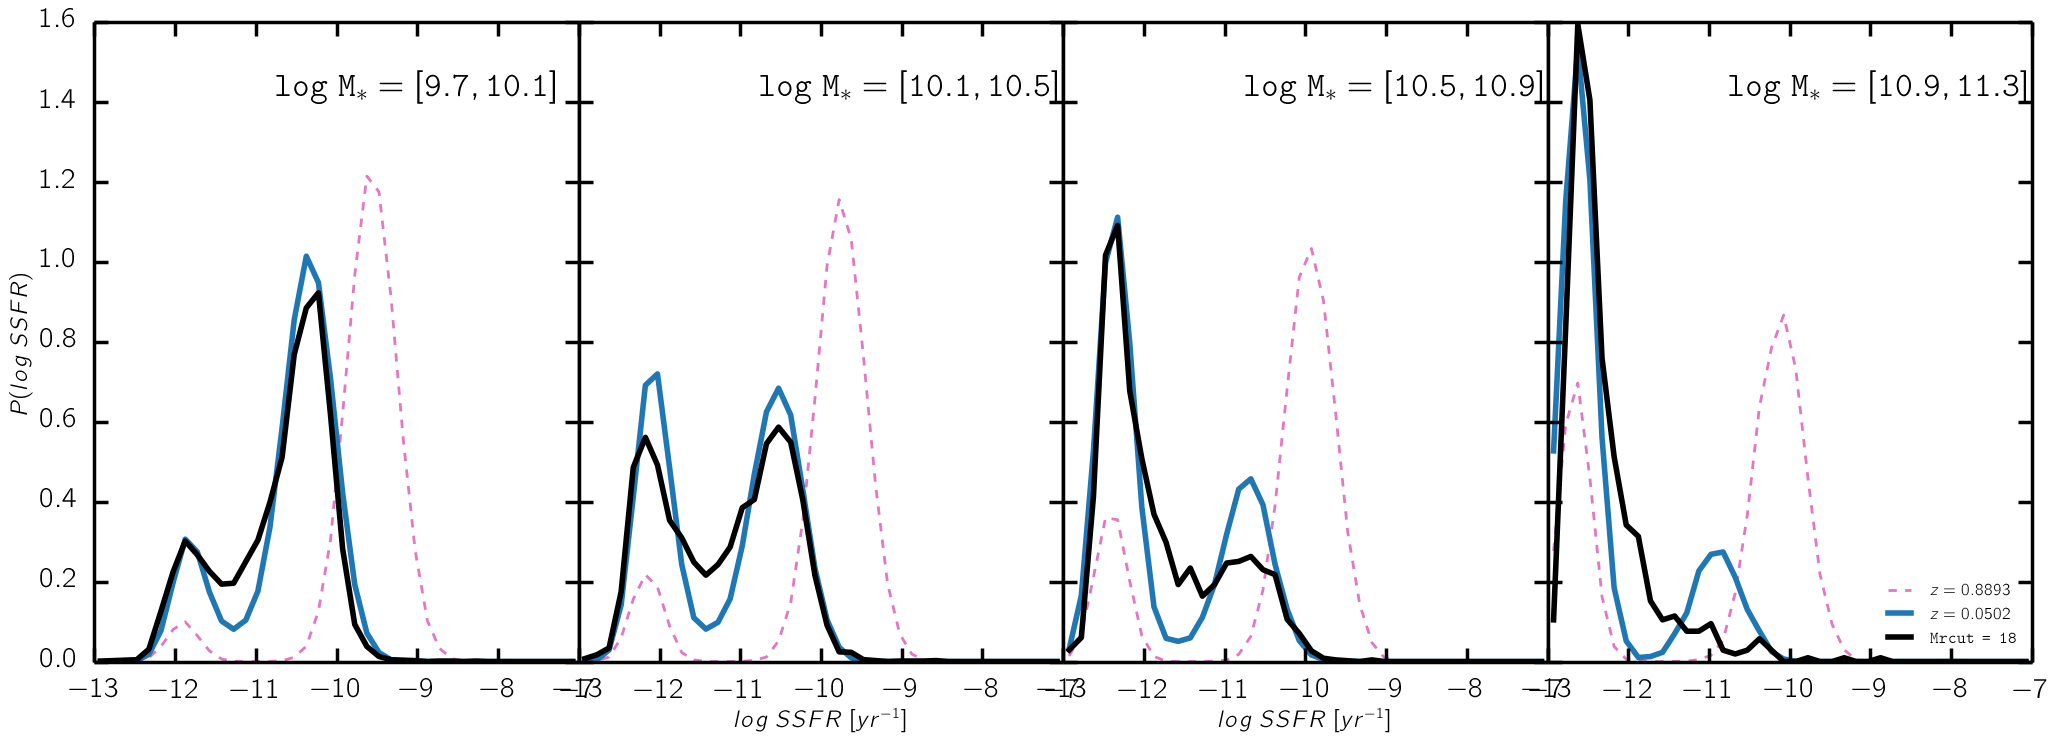
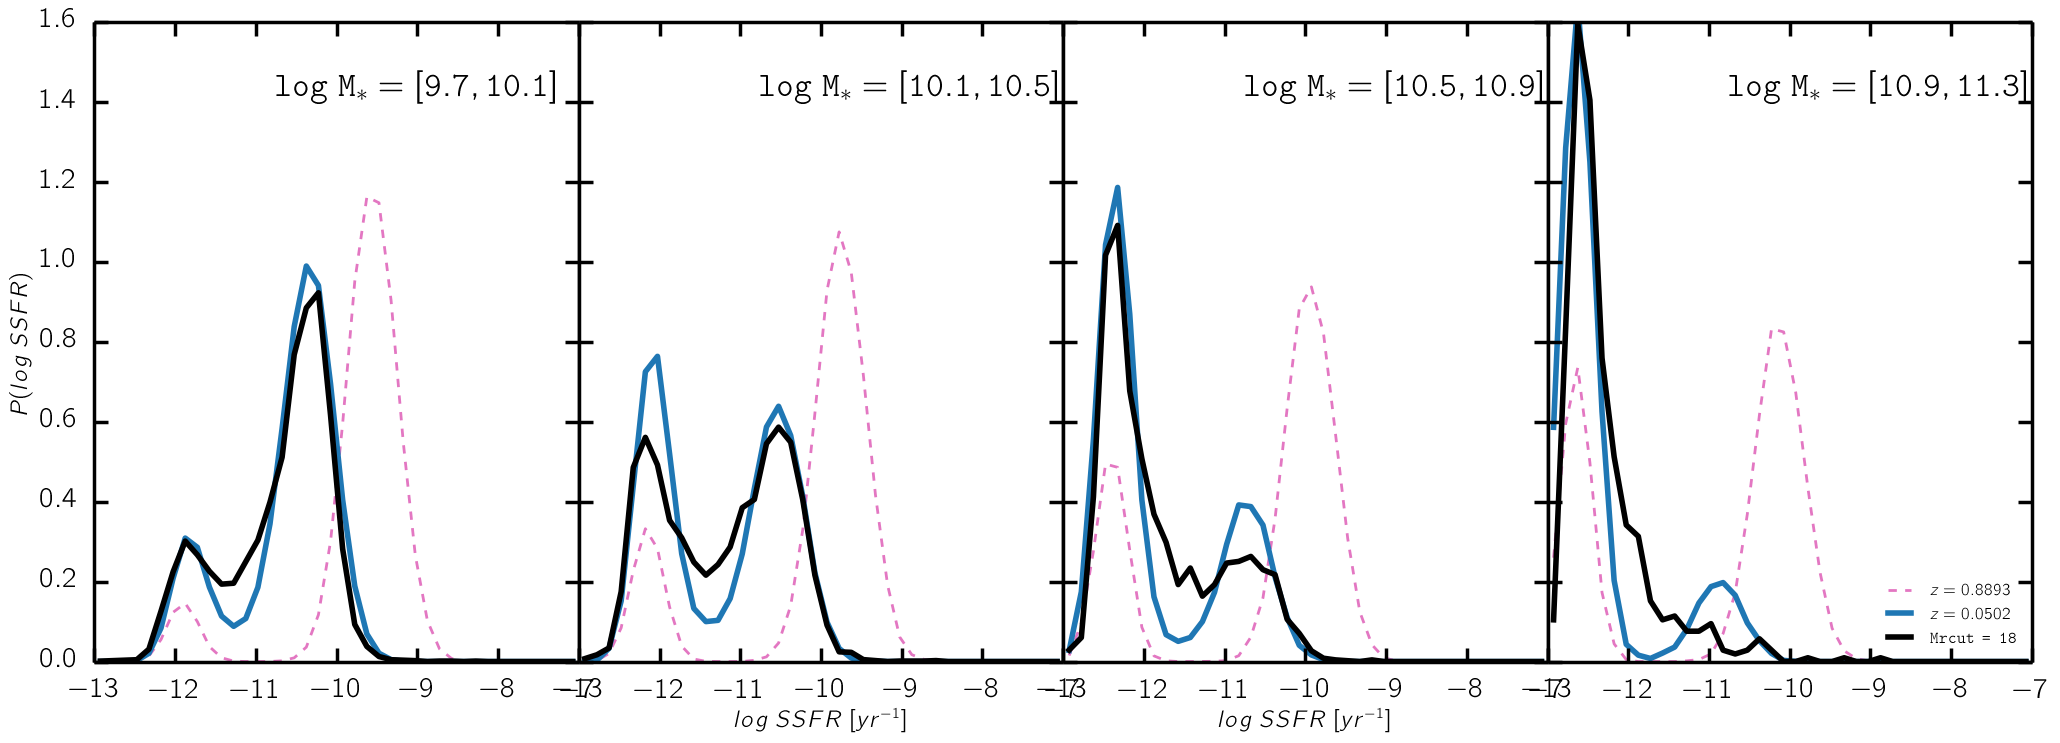
Smoothed out Wetzel fQ; hybrid quenching fraction

diff --git a/cenque_plot.py b/cenque_plot.py
@@ -175,6 +175,7 @@ def plot_cenque_ssfr_dist_evolution(Mrcut=18, **kwargs):
         'cenque_ssfr_evol_', tau_str, '_', fqing_str, '_Mrcut', str(Mrcut), '.png'])
     ssfr_fig.savefig(fig_file, bbox_inches='tight') 
     ssfr_fig.clear() 
+    plt.close(ssfr_fig)
 
 def plot_cenque_ssfr_dist_evolution_match2isedfit(Mrcut=18, **kwargs): 
     snap = cq.CenQue() 
@@ -301,6 +302,7 @@ def plot_cenque_quenching_ssfr_dist(nsnap, **kwargs):
         '_quenching_component.png'])
     fig.savefig(fig_file, bbox_inches='tight') 
     fig.clear() 
+    plt.close(fig)
 
 def plot_sdss_group_cat(): 
     ''' plot ssfr distribution for SDSS group catalogs
@@ -413,7 +415,7 @@ def plot_cenque_sf_mainseq():
 
 # quiescent fraction -----------------------------------
 def plot_fq_evol(): 
-    ''' Plot fq evolution 
+    ''' Plot fq evolution comparison
     '''
 
     # snapshot redshifts
@@ -423,9 +425,6 @@ def plot_fq_evol():
 
     mass_bin = util.simple_mass_bin()                    # mass bin 
        
-    fig, subs = plt.subplots(1,4, figsize=[20, 5]) 
-    subs = subs.ravel() 
-
     prettyplot()        # make pretty 
     pretty_colors = prettycolors() 
     
@@ -434,7 +433,11 @@ def plot_fq_evol():
     mod_tink_file = ''.join(['dat/central_quenching/literature/modified_tinker_fq.dat']) 
     mod_tink_mass, mod_tink_fq = np.loadtxt(mod_tink_file, unpack=True, usecols=[0,1])   
 
-    fq_types = ['cosmosinterp', 'cosmosfit', 'wetzel'] 
+    fq_types = ['cosmosinterp', 'wetzel', 'wetzelsmooth'] 
+    
+    fig, subs = plt.subplots(1, len(fq_types), figsize=[len(fq_types)*5, 5]) 
+    subs = subs.ravel() 
+
     for i_fq, fq_type in enumerate(fq_types): 
         for i_z, z in enumerate(zbin): 
 
@@ -454,27 +457,13 @@ def plot_fq_evol():
 
         subs[i_fq].set_xlabel('Mass') 
 
-    for i_z, z in enumerate(zbin): 
-
-        # plot fq(Mass) 
-        fq_mass = [util.get_fq_alpha(mass_bin.mass_mid[i], z, -1.5) 
-                for i in range(len(mass_bin.mass_mid))]
-        subs[3].plot(mass_bin.mass_mid, fq_mass, 
-                color=pretty_colors[i_z], lw=4, label='z = '+str(z) ) 
-    
-
-    subs[3].set_title('Evolved from z = 0.88') 
-
-    subs[3].set_xlim([9.0, 12.0])
-    subs[3].set_ylim([0.0, 1.0])
-
-    subs[3].set_xlabel('Mass') 
-
     subs[0].set_ylabel('Quiescent Fraction') 
     subs[0].legend(loc='upper left') 
-    return fig
+    fig_name = ''.join(['figure/fq_evol_comp_', '_'.join(fq_types), '.png'])
+    fig.savefig(fig_name, bbox_inches='tight')
+    fig.clear() 
 
-def plot_snapshot_fqobs_evol(nsnaps=[1,2,3,4,5,6,7,8,9,10,11,12],fq_type='wetzel', **kwargs): 
+def plot_snapshot_fqobs_evol(nsnaps=[1,2,3,4,5,6,7,8,9,10,11,12],fq_type='wetzelsmooth', **kwargs): 
     ''' Plot the observed quiescent fraction of snapshots
 
     Parameters
@@ -567,6 +556,7 @@ def plot_snapshot_fqobs_evol(nsnaps=[1,2,3,4,5,6,7,8,9,10,11,12],fq_type='wetzel
     fig_file = 'figure/fq_obs_snapshot.png'
     fig.savefig(fig_file, bbox_inches='tight')
     fig.clear()
+    plt.close(fig)
 
 def plot_snapshot_fqobs(nsnap, fq_type='wetzel', **kwargs): 
     ''' Plot the observed quiescent fraction of a snapshot with parameterized fQ
@@ -586,7 +576,7 @@ def plot_snapshot_fqobs(nsnap, fq_type='wetzel', **kwargs):
 
     mass_bins = util.simple_mass_bin()                    # mass bin 
        
-    fig = plt.figure(1, figsize=[5, 5]) 
+    fig = plt.figure(figsize=[5, 5]) 
     subs = fig.add_subplot(111)
 
     snap = cq.CenQue() 
@@ -617,8 +607,7 @@ def plot_snapshot_fqobs(nsnap, fq_type='wetzel', **kwargs):
     fq_mass = [util.get_fq(mass_bins.mass_mid[i], zbin, lit=fq_type) for i in range(len(mass_bins.mass_mid))]
     subs.plot(mass_bins.mass_mid, fq_mass, 
             color='black', lw=4, ls='--', label='Wetzel; z = '+str(zbin) ) 
-    
-    subs.set_title('Snapshots')
+
     subs.set_xlim([9.0, 12.0])
     subs.set_ylim([0.0, 1.0])
     subs.set_xlabel('Mass') 
@@ -628,6 +617,7 @@ def plot_snapshot_fqobs(nsnap, fq_type='wetzel', **kwargs):
     fig_file = 'figure/fq_obs_snapshot'+str(nsnap)+'.png'
     fig.savefig(fig_file, bbox_inches='tight')
     fig.clear()
+    plt.close(fig)
 
 def plot_quenching_efold(taus, tau_params): 
     ''' Plot quenching e-fold (tau) as a function of M*
@@ -1082,62 +1072,16 @@ if __name__=='__main__':
     #plot_groupcat_obs_fq(Mrcut=18)
     #plot_groupcat_obs_fq(Mrcut=19)
     #plot_groupcat_obs_fq(Mrcut=20)
+   
     plot_cenque_ssfr_dist_evolution(nsnaps=[1], Mrcut=18, tau='linear')
-    #plot_cenque_quenching_ssfr_dist(12, tau='linear')
-    #plot_cenque_quenching_ssfr_dist(11, tau='linear')
-    #plot_cenque_quenching_ssfr_dist(10, tau='linear')
-    #plot_cenque_quenching_ssfr_dist(9,  tau='linear')
-    #plot_cenque_quenching_ssfr_dist(8,  tau='linear')
-    #plot_cenque_quenching_ssfr_dist(7,  tau='linear')
-    #plot_cenque_quenching_ssfr_dist(6,  tau='linear')
-    #plot_cenque_quenching_ssfr_dist(5,  tau='linear')
-    #plot_cenque_quenching_ssfr_dist(4,  tau='linear')
-    #plot_cenque_quenching_ssfr_dist(3,  tau='linear')
-    #plot_cenque_quenching_ssfr_dist(2,  tau='linear')
-    #plot_cenque_quenching_ssfr_dist(1,  tau='linear')
+    tau_str = 'linear'
+    for i in range(1,13): 
+        plot_cenque_quenching_ssfr_dist(i, tau=tau_str)
 
-    #plot_cenque_quenching_ssfr_dist(12, tau='instant')
-    #plot_cenque_quenching_ssfr_dist(11, tau='instant')
-    #plot_cenque_quenching_ssfr_dist(10, tau='instant')
-    #plot_cenque_quenching_ssfr_dist(9,  tau='instant')
-    #plot_cenque_quenching_ssfr_dist(8,  tau='instant')
-    #plot_cenque_quenching_ssfr_dist(7,  tau='instant')
-    #plot_cenque_quenching_ssfr_dist(6,  tau='instant')
-    #plot_cenque_quenching_ssfr_dist(5,  tau='instant')
-    #plot_cenque_quenching_ssfr_dist(4,  tau='instant')
-    #plot_cenque_quenching_ssfr_dist(3,  tau='instant')
-    #plot_cenque_quenching_ssfr_dist(2,  tau='instant')
-    #plot_cenque_quenching_ssfr_dist(1,  tau='instant')
+    plot_snapshot_fqobs_evol(nsnaps=[1,2,3,4,5,6,7,8,9,10,11,12], fq_type='wetzelsmooth', tau='linear')
+    for i in range(1,13): 
+        plot_snapshot_fqobs(i, fq_type='wetzelsmooth', tau='linear')
 
-    #plot_snapshot_fqobs_evol(nsnaps=[1,2,3,4,5,6,7,8,9,10,11,12], fq_type='wetzel', tau='linear')
-    #plot_snapshot_fqobs_evol(nsnaps=[1,2,3,4,5,6,7,8,9,10,11,12], fq_type='wetzel', tau='instant')
-    '''
-    plot_snapshot_fqobs(12, fq_type='wetzel', tau='linear')
-    plot_snapshot_fqobs(11, fq_type='wetzel', tau='linear')
-    plot_snapshot_fqobs(10, fq_type='wetzel', tau='linear')
-    plot_snapshot_fqobs(9, fq_type='wetzel',  tau='linear')
-    plot_snapshot_fqobs(8, fq_type='wetzel',  tau='linear')
-    plot_snapshot_fqobs(7, fq_type='wetzel',  tau='linear')
-    plot_snapshot_fqobs(6, fq_type='wetzel',  tau='linear')
-    plot_snapshot_fqobs(5, fq_type='wetzel',  tau='linear')
-    plot_snapshot_fqobs(4, fq_type='wetzel',  tau='linear')
-    plot_snapshot_fqobs(3, fq_type='wetzel',  tau='linear')
-    plot_snapshot_fqobs(2, fq_type='wetzel',  tau='linear')
-    plot_snapshot_fqobs(1, fq_type='wetzel',  tau='linear')
-    '''
-
-    #plot_snapshot_fqobs(12, fq_type='wetzel', tau='instant')
-    #plot_snapshot_fqobs(11, fq_type='wetzel', tau='instant')
-    #plot_snapshot_fqobs(10, fq_type='wetzel', tau='instant')
-    #plot_snapshot_fqobs(9, fq_type='wetzel',  tau='instant')
-    #plot_snapshot_fqobs(8, fq_type='wetzel',  tau='instant')
-    #plot_snapshot_fqobs(7, fq_type='wetzel',  tau='instant')
-    #plot_snapshot_fqobs(6, fq_type='wetzel',  tau='instant')
-    #plot_snapshot_fqobs(5, fq_type='wetzel',  tau='instant')
-    #plot_snapshot_fqobs(4, fq_type='wetzel',  tau='instant')
-    #plot_snapshot_fqobs(3, fq_type='wetzel',  tau='instant')
-    #plot_snapshot_fqobs(2, fq_type='wetzel',  tau='instant')
-    #plot_snapshot_fqobs(1, fq_type='wetzel',  tau='instant')
     ##tau_fig = plot_quenching_efold(['linear', 'linefit'], [[], [-0.15, 0.17]]) 
 
     #plot_ssfms_groupcat(Mrcut=18)
@@ -1152,8 +1096,7 @@ if __name__=='__main__':
     #plot_cenque_sf_mainseq()
 
     #fq_fig = plot_fq_evol_w_geha() 
-    #fq_fig = plot_fq_evol()
-    #fq_fig.savefig('figure/tinker/fq_evol_fig_lit.png', bbox_inches='tight')
+    #plot_fq_evol()
 
     #tau_fig = plot_quenching_efold() 
     #tau_fig.savefig('figure/quenching_efold_fig.png', bbox_inches='tight')

diff --git a/cenque.py b/cenque.py
@@ -126,7 +126,7 @@ class CenQue:
             # get quiescent fraction for mass bin at z_snapshot 
             #mass_bin_qf = util.get_fquenching(mass_bins.mass_mid[i_m], self.zsnap, 
             #        yint=kwargs['fqing_yint'])
-            mass_bin_qf = util.get_fq(mass_bins.mass_mid[i_m], self.zsnap, lit='wetzel') 
+            mass_bin_qf = util.get_fq(mass_bins.mass_mid[i_m], self.zsnap, lit='wetzelsmooth') 
 
             # Ngal,quiescent in mass bin
             mass_bin_n_q = int( np.rint(mass_bin_qf * np.float(mass_bin_ngal)) ) 
@@ -510,7 +510,9 @@ def EvolveCenQue(origin_nsnap, final_nsnap, mass_bin=None, **kwargs):
         child_cq.ssfr[q_child_indx] = parent_cq.ssfr[q_child_parent_indx]
         child_cq.sfr[q_child_indx] = child_cq.ssfr[q_child_indx] + \
                 child_cq.mass[q_child_indx]
-       
+        
+        quenching_fractions = [] 
+        quenching_fractionss = [] 
         for i_m in range(mass_bins.nbins):              
             
             # boolean list for mass range
@@ -530,7 +532,7 @@ def EvolveCenQue(origin_nsnap, final_nsnap, mass_bin=None, **kwargs):
                 continue 
             
             # observed quiescent fraction at M* and z
-            mbin_qf = util.get_fq(mass_bins.mass_mid[i_m], child_cq.zsnap, lit='wetzel') 
+            mbin_qf = util.get_fq(mass_bins.mass_mid[i_m], child_cq.zsnap, lit='wetzelsmooth') 
 
             print 'nsnap = ', child_cq.nsnap, ' z = ', child_cq.zsnap, ' M* = ', mass_bins.mass_mid[i_m], ' fq = ', mbin_qf
             
@@ -590,35 +592,64 @@ def EvolveCenQue(origin_nsnap, final_nsnap, mass_bin=None, **kwargs):
                 -(child_cq.t_cosmic - parent_cq.t_cosmic) / taus 
                 ))      
             #print child_cq.parent_sfr[mbin_sf_index] + tau_quench - child_cq.mass[mbin_sf_index]
-            print tau_quench
-            print min(child_cq.sfr[mbin_sf_index] + tau_quench - child_cq.mass[mbin_sf_index])
-            print max(child_cq.sfr[mbin_sf_index] + tau_quench - child_cq.mass[mbin_sf_index])
+            #print tau_quench
+            #print min(child_cq.sfr[mbin_sf_index] + tau_quench - child_cq.mass[mbin_sf_index])
+            #print max(child_cq.sfr[mbin_sf_index] + tau_quench - child_cq.mass[mbin_sf_index])
 
             sfqs = util.sfq_classify(child_cq.mass[mbin_sf_index], child_cq.sfr[mbin_sf_index] + tau_quench, child_cq.zsnap)
             ngal_totalq = np.float(np.sum(sfqs == 'quiescent'))
-            print min(child_cq.sfr[mbin_sf_index[sfqs == 'quiescent']] + tau_quench[sfqs == 'quiescent'] - child_cq.mass[mbin_sf_index[sfqs == 'quiescent']])
-            print max(child_cq.sfr[mbin_sf_index[sfqs == 'quiescent']] + tau_quench[sfqs == 'quiescent'] - child_cq.mass[mbin_sf_index[sfqs == 'quiescent']])
+            #print min(child_cq.sfr[mbin_sf_index[sfqs == 'quiescent']] + tau_quench[sfqs == 'quiescent'] - child_cq.mass[mbin_sf_index[sfqs == 'quiescent']])
+            #print max(child_cq.sfr[mbin_sf_index[sfqs == 'quiescent']] + tau_quench[sfqs == 'quiescent'] - child_cq.mass[mbin_sf_index[sfqs == 'quiescent']])
     
             if ngal_totalq == 0: 
                 raise NameError("What the fuck") 
-
+            #print 'ngal_totalq', ngal_totalq
+            
+            '''
             #quenching_fraction = np.float(ngal_2quench)/ngal_totalq
-            quenching_fraction = 0.1 + 0.066 * (mass_bins.mass_mid[i_m] - 11.0)
-            quenching_fraction = 
+            if mass_bins.mass_mid[i_m] < 9.5: 
+                alpha = 0.5 
+            elif (mass_bins.mass_mid[i_m] >= 9.5) & (mass_bins.mass_mid[i_m] < 10.0): 
+                alpha = 0.5
+            elif (mass_bins.mass_mid[i_m] >= 10.0) & (mass_bins.mass_mid[i_m] < 10.5): 
+                alpha = 0.75
+            elif (mass_bins.mass_mid[i_m] >= 10.5) & (mass_bins.mass_mid[i_m] < 11.0): 
+                alpha = 0.75 
+            elif (mass_bins.mass_mid[i_m] >= 11.0) & (mass_bins.mass_mid[i_m] < 11.5): 
+                alpha = 2.0
+            elif (mass_bins.mass_mid[i_m] < 11.5): 
+                alpha = 2.0 
+            '''
+            alpha = 1.0
+            quenching_fraction = 0.05 * (mass_bins.mass_mid[i_m] - 9.5) * (1.8 - child_cq.zsnap)**alpha 
+            quenching_fractions.append(quenching_fraction)
+
+            quenching_fraction = np.float(ngal_2quench)/np.float(ngal_totalq)
+            quenching_fractionss.append(quenching_fraction)
+
+            if mass_bins.mass_mid[i_m] < 10.75: 
+                alpha = 1.0
+                quenching_fraction = 0.05 * (mass_bins.mass_mid[i_m] - 9.5) * (1.8 - child_cq.zsnap)**alpha 
+            else: 
+                quenching_fraction = np.float(ngal_2quench)/np.float(ngal_totalq)
+                quenching_fractionss.append(quenching_fraction)
+
             if quenching_fraction < 0.0: 
                 quenching_fraction = 0.0
-            print 'ngal_totalq', ngal_totalq
-            print 'quenching fraction ', quenching_fraction
+            elif quenching_fraction > 1.0: 
+                quenching_fraction = 1.0
+            #print 'quenching fraction ', quenching_fraction
             if quenching_fraction == 0.0: 
                 continue
             
-            if quenching_fraction > 0.4: 
-                #raise NameError('asdfasdfasdf')
-                #quench_index = mbin_sf_index
-                print 'QUENCHING FRACTION TOO LARGE ******************************************************************'
-                quench_index = random.sample(mbin_sf_index, ngal_2quench) 
-            else: 
-                quench_index = random.sample(mbin_sf_index, int( np.rint(quenching_fraction * np.float(mbin_sf_ngal) ) ) )
+
+            #if quenching_fraction > 1.0: 
+            #    #raise NameError('asdfasdfasdf')
+            #    #quench_index = mbin_sf_index
+            #    print 'QUENCHING FRACTION TOO LARGE ******************************************************************'
+            #    quench_index = random.sample(mbin_sf_index, ngal_2quench) 
+            #else: 
+            quench_index = random.sample(mbin_sf_index, int( np.rint(quenching_fraction * np.float(mbin_sf_ngal) ) ) )
             
             #quench_index = random.sample(mbin_sf_index, ngal_2quench) 
             
@@ -642,13 +673,15 @@ def EvolveCenQue(origin_nsnap, final_nsnap, mass_bin=None, **kwargs):
                 -(child_cq.t_cosmic - parent_cq.t_cosmic) / child_cq.tau[quench_index]
                 ))      
 
-
             child_cq.sfr[quench_index] = child_cq.parent_sfr[quench_index] + tau_quench 
             child_cq.ssfr[quench_index] = child_cq.sfr[quench_index] - child_cq.mass[quench_index]
 
             q_ssfr_mean = util.get_q_ssfr_mean(child_cq.mass[quench_index]) 
             child_cq.q_ssfr[quench_index] = 0.18 * np.random.randn(len(quench_index)) + q_ssfr_mean 
         
+        print child_cq.zsnap
+        print quenching_fractions
+        print quenching_fractionss
         # deal with orphans
 
         print len(child_cq.gal_type[child_cq.gal_type == '']), ' child galaxies are orphans' 

diff --git a/cenque_utility.py b/cenque_utility.py
@@ -84,6 +84,20 @@ def get_fq(Mstar, z_in, lit='cosmosinterp'):
             output = 1.0 
 
         return output 
+    
+    elif lit == 'wetzelsmooth': 
+
+        qf_z0 = -6.04 + 0.63*Mstar
+        alpha = -1.5
+
+        output = qf_z0 * ( 1.0 + z_in )**alpha 
+        if output < 0.0: 
+            output = 0.0
+        elif output > 1.0: 
+            output = 1.0 
+
+        return output 
+
     else: 
         raise NameError('Not yet coded') 
 
